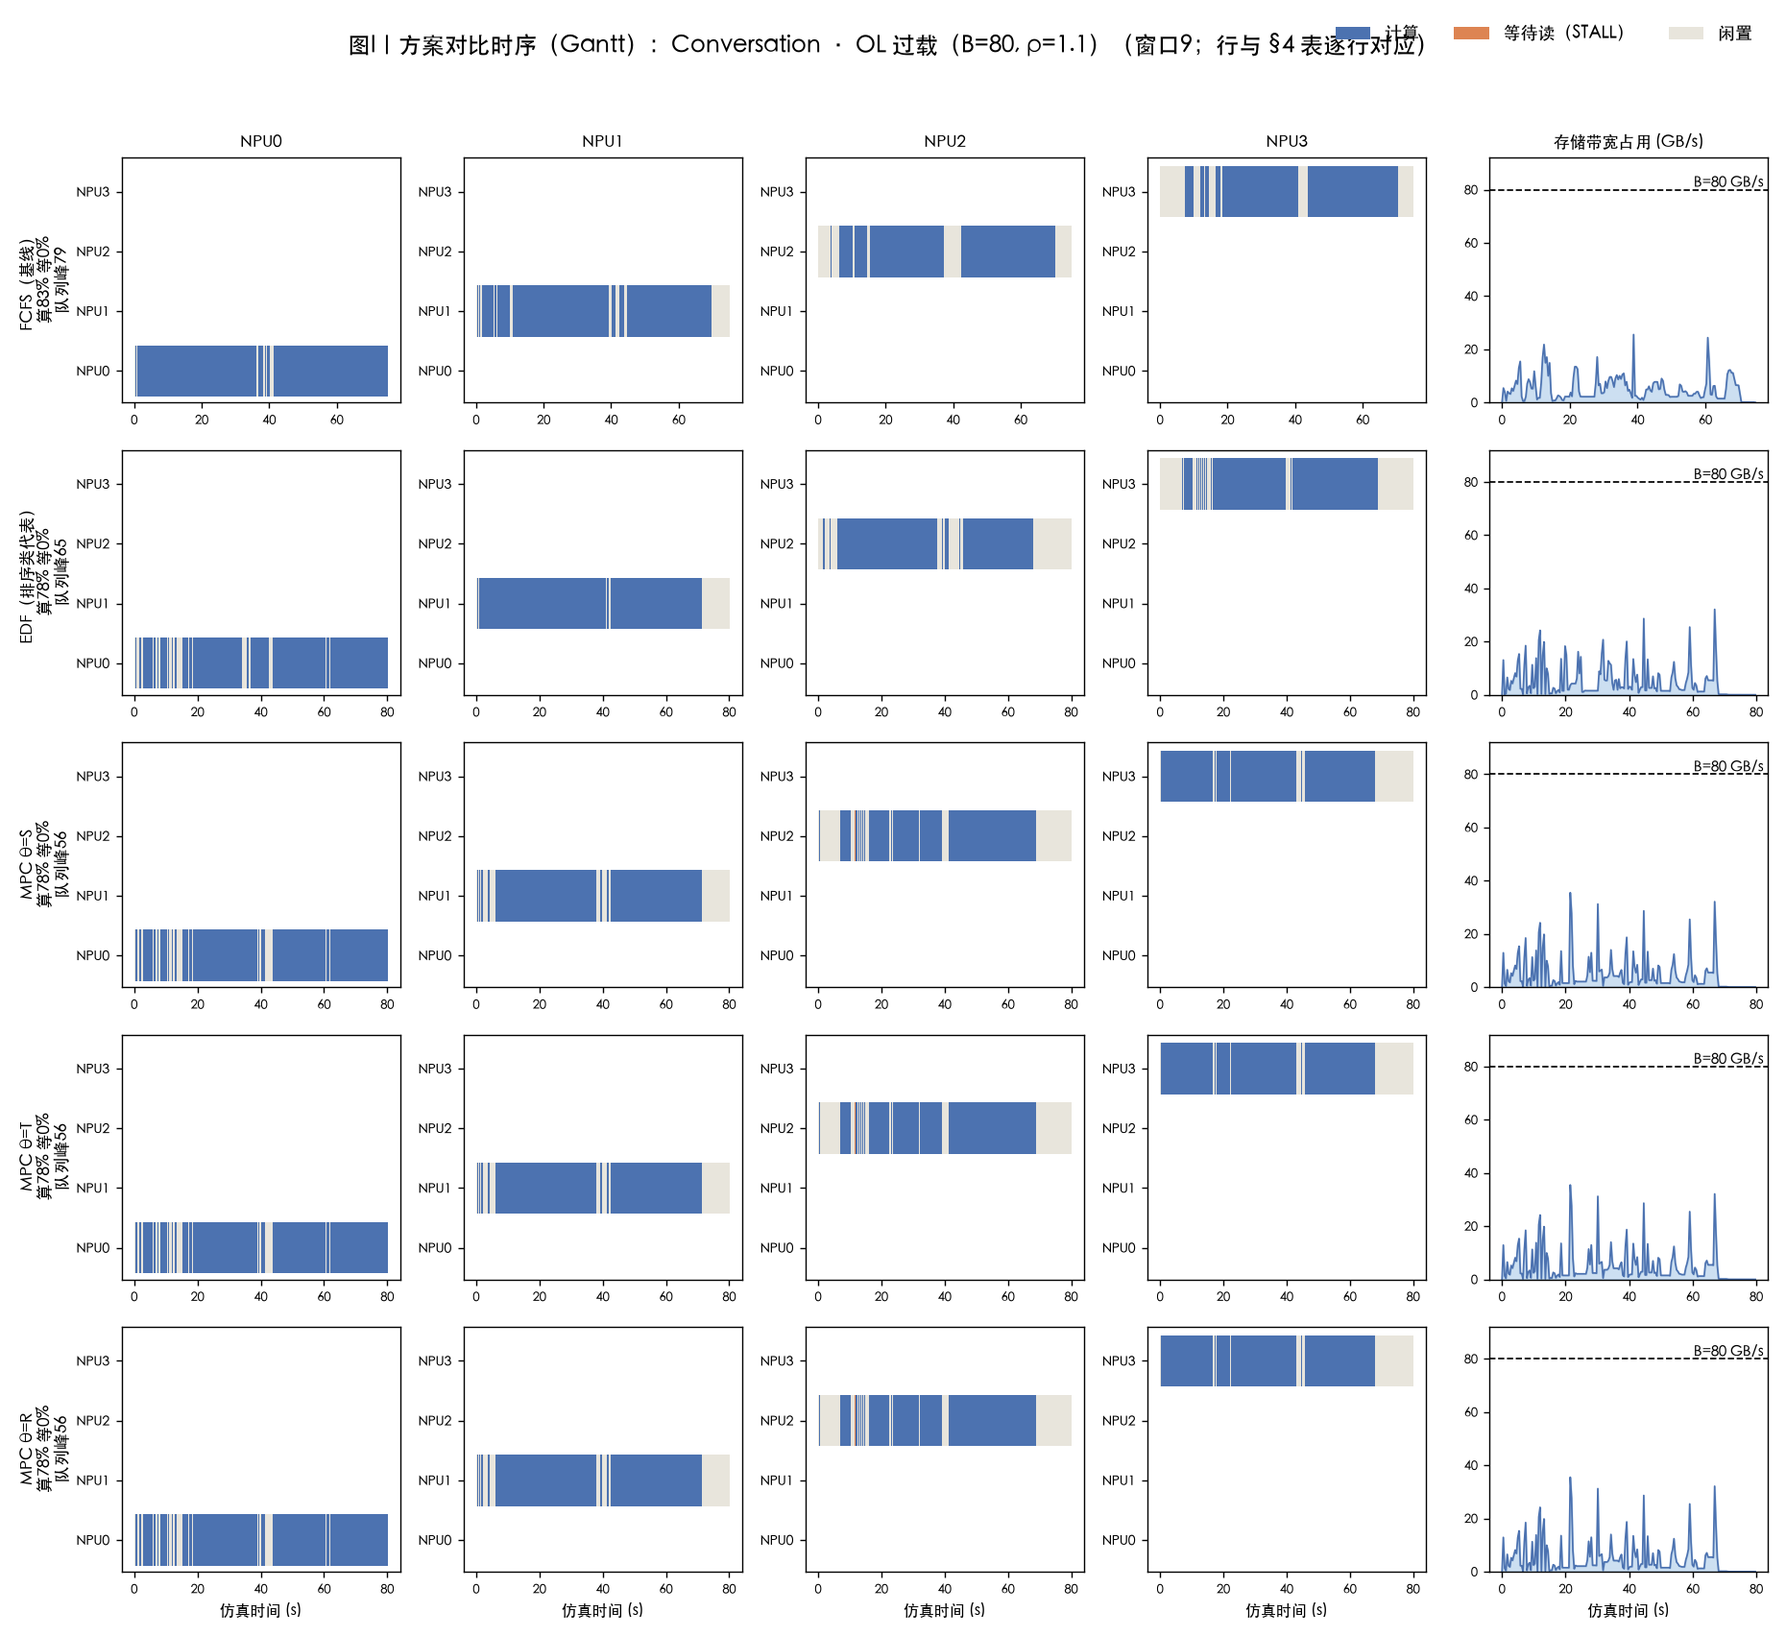
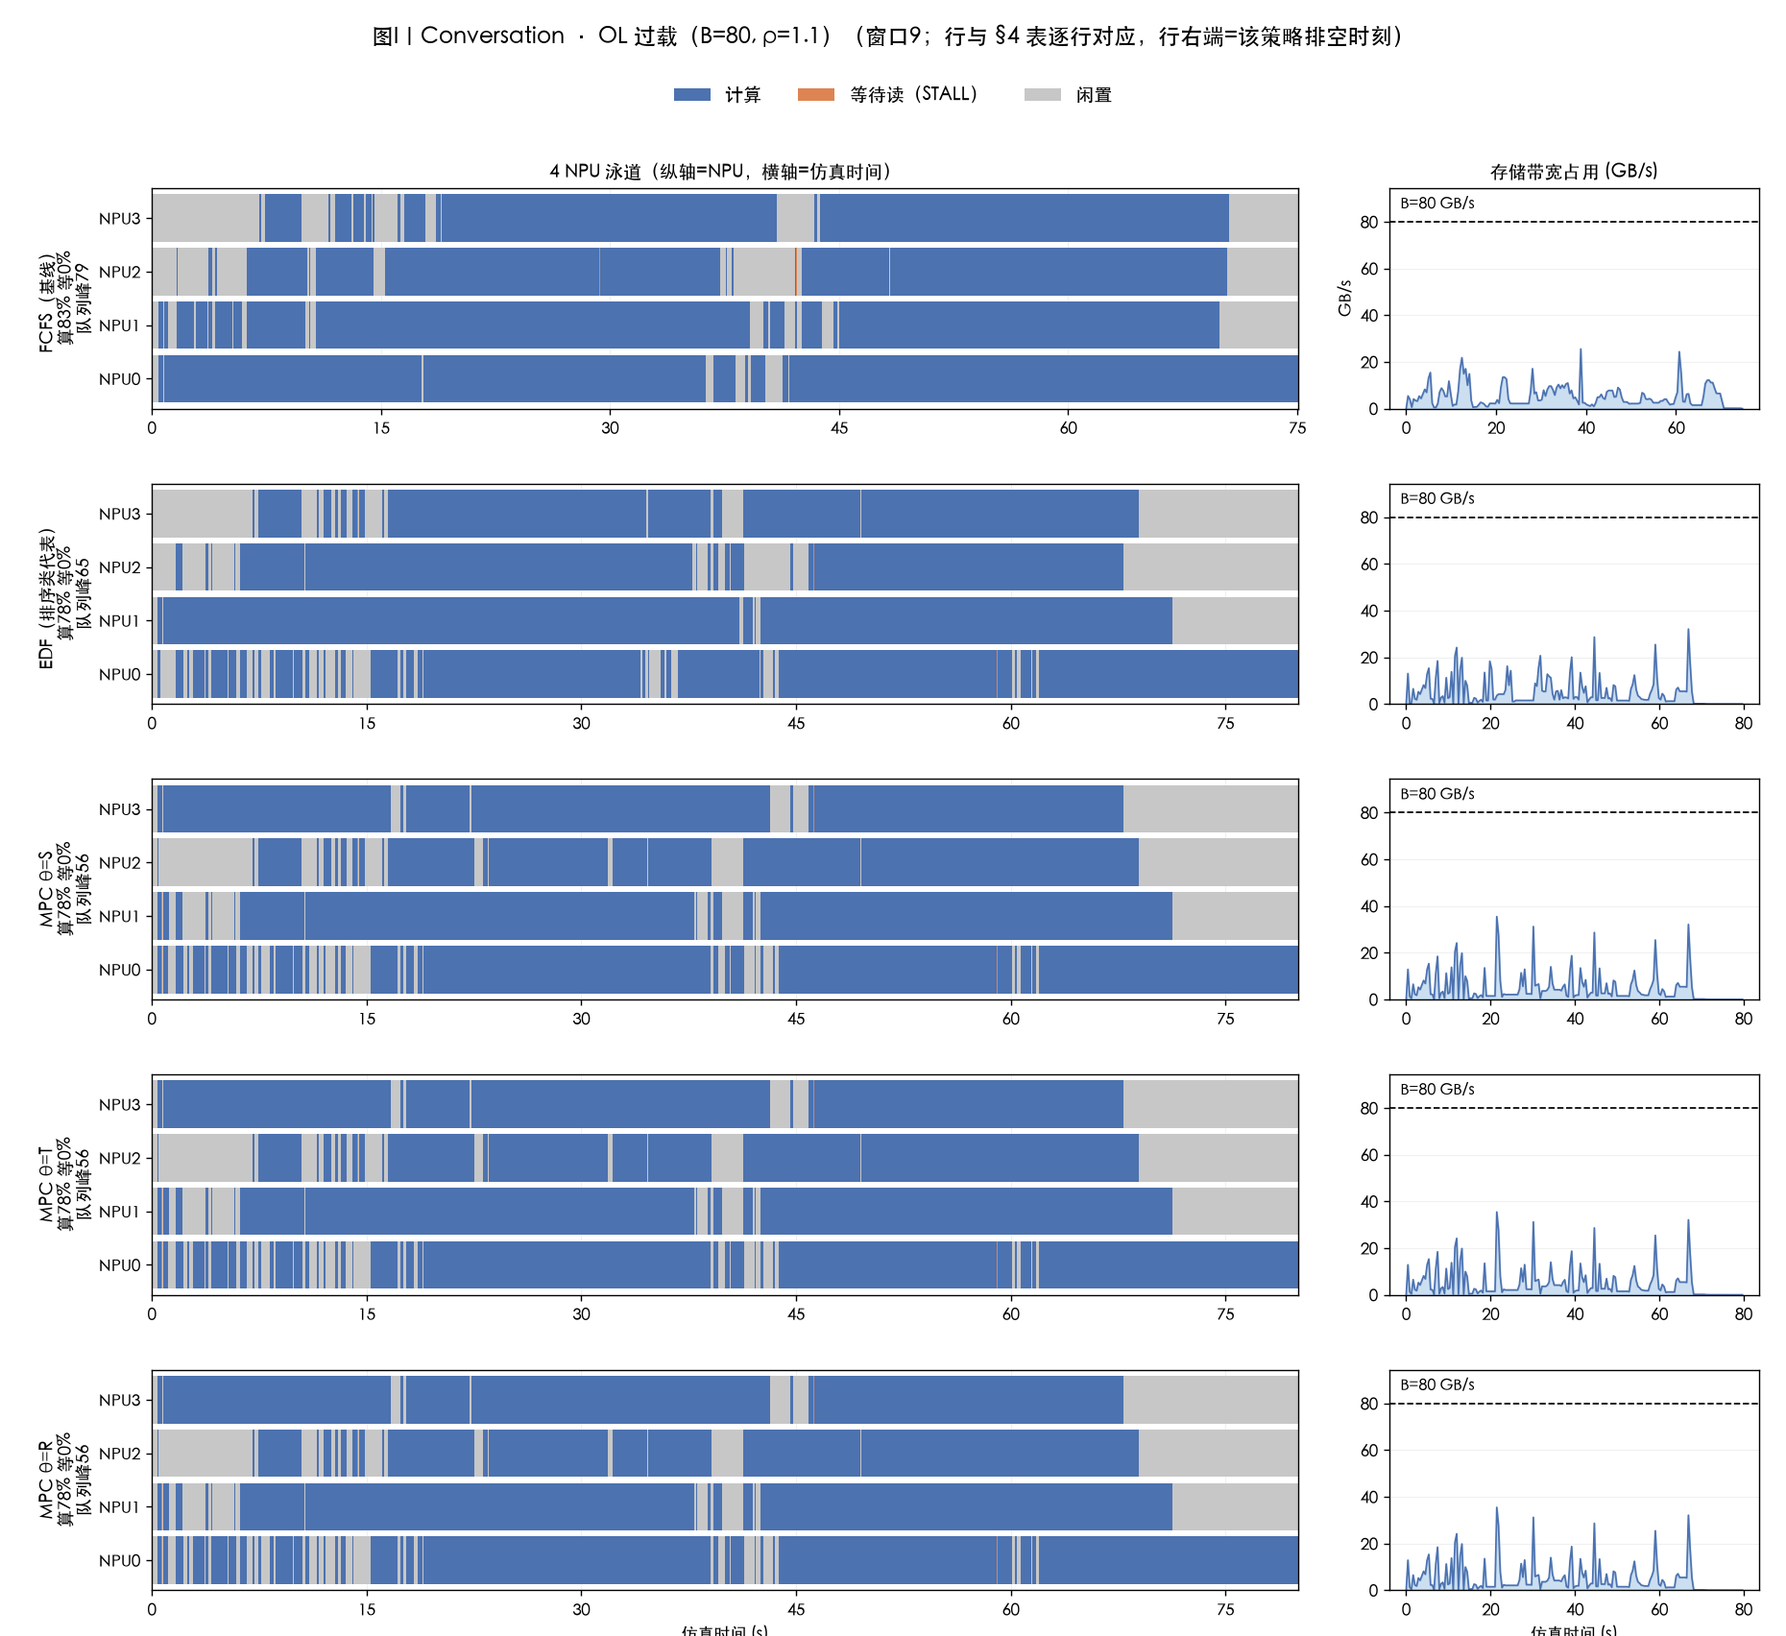
fix(figs): 图 I 重绘为真 Gantt 消除空白/文字重叠；§5 配时序图、§6.0 去重
应用户五点反馈（20260920）：
- 图 I 布局 bug 修复：此前每个 NPU 独占一个子图但纵轴仍为 0–4，
  每个小图 3/4 空白；现改为每行一张含 4 条 NPU 泳道的完整 Gantt
  （纵轴=NPU、横轴=时间），闲置改为可见灰色 #C7C7C7（原米色近白、
  看不出状态），行右端=该策略排空时刻（M 差异直读）；
- 文字重叠：新增 --audit 模式做文字 bbox 两两相交检查，18 张图 I
  与图 A/C 全部清零（图例移至标题下方居中、刻度 MaxNLocator 稀疏化
  并剪枝、加宽列间距）；
- 新增 α=8 场景 ×3 trace（共 18 张 cmp）；e25_redraw 图 A/C 返回
  fig 对象供审计；
- 报告 v4.4：§5.1/5.2/5.3 各嵌图 I 时序形态并给读法（B=20 局部等待、
  α=8 不改资源行为只改期限记账、ρ 两端甜区/过载）；§6.0 改为差距
  成因分析+文件索引、删除与 §4/§5 重复的 6 处嵌图；§4 头部新增格点
  口径声明（基线 ρ=0.6/B=80/α=4，其他扫描在 §5）；图数 29→32。
测试 147 passed。

diff --git a/tools/e25_ts_compare.py b/tools/e25_ts_compare.py
@@ -1,16 +1,17 @@
 """E25 方案对比时序图（图 I 系列，Gantt 式）：行与 §4 各表逐行对应。
 
-设计契约（20260919 定稿，v4.3 入库为正式生成器）：
+设计契约（20260920 v2，修复"子图大面积空白/文字重叠"问题）：
 - FW 场景 6 行：FCFS / EDF（排序类代表，spt/edf/slack 同结果）/ MPC θ=M/S/T/R；
 - OL 场景 5 行：去 θ=M（OL 未跑 θ=M，M 无定义）——与 §4 表行数一一对应；
-- 每行左侧 4 个子图 = NPU0..3 的四条泳道 Gantt：横轴仿真时间，逐桶按
-  计算/等待/闲置的时间占比切分着色（蓝=计算、橙=等待读、米灰底=闲置）；
-- 每行右侧窄列 = 存储带宽实际占用（GB/s，黑虚线 = 可用带宽 B）；
-- 行标签旁标注该策略统计（算% / 等% / 队列峰），图例含三种状态。
+- 每行 = 一张含 4 条 NPU 泳道的 Gantt（纵轴 NPU0..3、横轴仿真时间，
+  逐桶按 计算/等待/闲置 时间占比切分着色：蓝=计算、橙=等待读、灰=闲置，
+  闲置为可见灰色泳道底）+ 右侧窄列 = 存储带宽实际占用（GB/s）；
+- 行标签旁标注该策略统计（算% / 等% / 队列峰）；
+- 各行横轴独立自适应——行的右端即该策略排空时刻（M 差异直接可见）。
 
+场景覆盖（×3 trace 共 18 张）：OL 基线 / B=20 / α=8 / ρ=0.3 / ρ=1.1 与 FW 基线。
 直接读取已归档的 E25.1 时间序列（ts/<cell_id>/<policy>[_θ].json.gz），
-不重跑仿真。覆盖：OL 基线/B=20/ρ=0.3/ρ=1.1 与 FW 基线 × 3 trace 共 15 张；
-同时打印每行统计供报告图注引用。
+不重跑仿真。`--audit` 模式不落盘，只做文字 bbox 重叠检查（QA 用）。
 """
 from __future__ import annotations
 
@@ -18,6 +19,8 @@ import gzip
 import json
 import os
 import sys
+
+from matplotlib.ticker import MaxNLocator
 
 sys.path.insert(0, os.getcwd())
 
@@ -28,9 +31,9 @@ TS_ROOT = os.path.join(REPO, "results", "cq", "eval", "e25", "ts")
 FIG_DIR = os.path.join(REPO, "docs", "figures")
 WINDOW = 9
 
-C_COMP, C_STALL, C_IDLE = "#4C72B0", "#DD8452", "#E8E5DC"
+C_COMP, C_STALL, C_IDLE = "#4C72B0", "#DD8452", "#C7C7C7"
 DPI = 125
-# 画布与既有正式图一致：FW 1860x2016、OL 1860x1704
+# 画布与正式图一致：FW 1860x2016、OL 1860x1704
 FIGSIZE = {"FW": (14.88, 16.128), "OL": (14.88, 13.632)}
 
 ROWS_FW = [("cq_fcfs", "", "FCFS（基线）"),
@@ -44,24 +47,26 @@ ROWS_OL = [r for r in ROWS_FW if r[1] != "_M"]
 CELLS = []
 for f, _n, _m, _s in MOONCAKE_FILES:
     CELLS += [
-        dict(tag="OLbase", mode="OL", file=f, B=80.0, rho=0.6, cap="C",
-             profile="default", title_extra="OL 基线（B=80, ρ=0.6）"),
-        dict(tag="OLB20", mode="OL", file=f, B=20.0, rho=0.6, cap="C",
-             profile="default", title_extra="OL 带宽受限（B=20, ρ=0.6）"),
-        dict(tag="OLr03", mode="OL", file=f, B=80.0, rho=0.3, cap="C",
-             profile="default", title_extra="OL 低负载（B=80, ρ=0.3）"),
-        dict(tag="OLr11", mode="OL", file=f, B=80.0, rho=1.1, cap="C",
-             profile="default", title_extra="OL 过载（B=80, ρ=1.1）"),
-        dict(tag="FWbase", mode="FW", file=f, B=80.0, rho=None, cap="C",
-             profile="default", title_extra="FW 有限工作集（128 条同时到达）"),
+        dict(tag="OLbase", mode="OL", file=f, B=80.0, rho=0.6, alpha=4,
+             title_extra="OL 基线（B=80, ρ=0.6, α=4）"),
+        dict(tag="OLB20", mode="OL", file=f, B=20.0, rho=0.6, alpha=4,
+             title_extra="OL 带宽受限（B=20, ρ=0.6）"),
+        dict(tag="OLa8", mode="OL", file=f, B=80.0, rho=0.6, alpha=8,
+             title_extra="OL 松期限（α=8）"),
+        dict(tag="OLr03", mode="OL", file=f, B=80.0, rho=0.3, alpha=4,
+             title_extra="OL 低负载（B=80, ρ=0.3）"),
+        dict(tag="OLr11", mode="OL", file=f, B=80.0, rho=1.1, alpha=4,
+             title_extra="OL 过载（B=80, ρ=1.1）"),
+        dict(tag="FWbase", mode="FW", file=f, B=80.0, rho=None, alpha=4,
+             title_extra="FW 有限工作集（128 条同时到达）"),
     ]
 
 
 def cell_id(c):
     rho = "-" if c["rho"] is None else f"{c['rho']:g}"
     stem = c["file"].replace("_trace.jsonl", "").replace(".jsonl", "")
-    return (f"{stem}|{c['mode']}|B{c['B']:g}|rho{rho}|a4|{c['cap']}|"
-            f"{c['profile']}|w{WINDOW}")
+    return (f"{stem}|{c['mode']}|B{c['B']:g}|rho{rho}|a{c['alpha']:g}|C|"
+            f"default|w{WINDOW}")
 
 
 def load_ts(c, pid, suffix):
@@ -82,30 +87,35 @@ def row_stats(ts):
             max(q) if q else 0)
 
 
-def draw_gantt(ax, ts, wi):
-    """单 NPU 泳道 Gantt：全底米灰=闲置，逐桶叠蓝（计算）/橙（等待读）。"""
+def draw_gantt(ax, ts):
+    """一张含 4 条 NPU 泳道的 Gantt：灰底=闲置，逐桶叠蓝（计算）/橙（等待读）。"""
     rows = [r for r in ts["rows"] if r["width_s"] > 0]
     t0 = min(r["t_start_s"] for r in rows)
     t1 = max(r["t_start_s"] + r["width_s"] for r in rows)
-    ax.broken_barh([(t0, t1 - t0)], (wi, 0.86), facecolors=C_IDLE,
-                   edgecolor="none", zorder=1)
-    blue_xr, orange_xr = [], []
-    for r in rows:
-        c, s, _i = r["workers"][wi]
-        if c > 0:
-            blue_xr.append((r["t_start_s"], c))
-        if s > 0:
-            orange_xr.append((r["t_start_s"] + c, s))
-    if blue_xr:
-        ax.broken_barh(blue_xr, (wi, 0.86), facecolors=C_COMP,
-                       edgecolor="none", zorder=2)
-    if orange_xr:
-        ax.broken_barh(orange_xr, (wi, 0.86), facecolors=C_STALL,
-                       edgecolor="none", zorder=3)
-    ax.set_ylim(-0.1, 4.0)
-    ax.set_yticks([j + 0.43 for j in range(4)])
-    ax.set_yticklabels([f"NPU{j}" for j in range(4)], fontsize=8)
-    ax.tick_params(axis="x", labelsize=7.5)
+    for j in range(4):
+        y = (j + 0.055, 0.89)
+        ax.broken_barh([(t0, t1 - t0)], y, facecolors=C_IDLE,
+                       edgecolor="none", zorder=1)
+        blue_xr, orange_xr = [], []
+        for r in rows:
+            c, s, _i = r["workers"][j]
+            if c > 0:
+                blue_xr.append((r["t_start_s"], c))
+            if s > 0:
+                orange_xr.append((r["t_start_s"] + c, s))
+        if blue_xr:
+            ax.broken_barh(blue_xr, y, facecolors=C_COMP,
+                           edgecolor="none", zorder=2)
+        if orange_xr:
+            ax.broken_barh(orange_xr, y, facecolors=C_STALL,
+                           edgecolor="none", zorder=3)
+    ax.set_ylim(-0.06, 4.06)
+    ax.set_yticks([j + 0.5 for j in range(4)])
+    ax.set_yticklabels([f"NPU{j}" for j in range(4)], fontsize=10)
+    ax.set_xlim(t0, t1)
+    ax.xaxis.set_major_locator(MaxNLocator(nbins=7, prune="upper"))
+    ax.grid(axis="x", alpha=.18, lw=.6)
+    ax.set_axisbelow(True)
 
 
 def draw_bandwidth(ax, ts, first_row, last_row):
@@ -116,14 +126,90 @@ def draw_bandwidth(ax, ts, first_row, last_row):
     ax.fill_between(xs, rate, color="#8fb8e0", alpha=.45, zorder=1)
     ax.plot(xs, rate, color=C_COMP, lw=1.0, zorder=2)
     ax.axhline(b, color="k", ls="--", lw=1.0, zorder=3)
-    ax.text(0.985, b, f"B={b:g} GB/s", transform=ax.get_yaxis_transform(),
-            va="bottom", ha="right", fontsize=8.5)
-    ax.set_ylim(0, b * 1.15)
-    ax.tick_params(labelsize=7.5)
+    ax.set_ylim(0, b * 1.18)
+    ax.xaxis.set_major_locator(MaxNLocator(nbins=5))
+    ax.text(0.03, 0.965, f"B={b:g} GB/s", transform=ax.transAxes,
+            va="top", ha="left", fontsize=9)
+    ax.grid(axis="y", alpha=.18, lw=.6)
     if first_row:
-        ax.set_title("存储带宽占用 (GB/s)", fontsize=10)
+        ax.set_title("存储带宽占用 (GB/s)", fontsize=11)
     if last_row:
-        ax.set_xlabel("仿真时间 (s)", fontsize=9)
+        ax.set_xlabel("仿真时间 (s)", fontsize=10)
+    if first_row:
+        ax.set_ylabel("GB/s", fontsize=9.5)
+
+
+def build_figure(plt, c, legend_patches):
+    """构建一张图 I（不落盘）。返回 (fig, [(label, stats), ...])。"""
+    rows_def = ROWS_FW if c["mode"] == "FW" else ROWS_OL
+    tss = []
+    for pid, suffix, label in rows_def:
+        ts = load_ts(c, pid, suffix)
+        if ts is None:
+            break
+        tss.append((label, ts))
+    if len(tss) < len(rows_def):
+        return None, None
+    n = len(tss)
+    fig = plt.figure(figsize=FIGSIZE[c["mode"]], dpi=DPI)
+    gs = fig.add_gridspec(n, 2, width_ratios=[3.1, 1.0], hspace=0.34,
+                          wspace=0.12, left=0.085, right=0.985,
+                          top=0.885, bottom=0.028)
+    stat_rows = []
+    for ri, (label, ts) in enumerate(tss):
+        first, last = ri == 0, ri == n - 1
+        axg = fig.add_subplot(gs[ri, 0])
+        draw_gantt(axg, ts)
+        if first:
+            axg.set_title("4 NPU 泳道（纵轴=NPU，横轴=仿真时间）", fontsize=11)
+        if last:
+            axg.set_xlabel("仿真时间 (s)", fontsize=10)
+        axb = fig.add_subplot(gs[ri, 1])
+        draw_bandwidth(axb, ts, first, last)
+        comp, stall, qmax = row_stats(ts)
+        stat_rows.append((label, comp, stall, qmax))
+        axg.set_ylabel(f"{label}\n算{comp:.0%} 等{stall:.0%}\n队列峰{qmax:.0f}",
+                       fontsize=10.5)
+    fig.suptitle(f"图I｜{TRACE_LABEL[c['file']]} · {c['title_extra']}"
+                 f"（窗口{WINDOW}；行与 §4 表逐行对应，行右端=该策略排空时刻）",
+                 fontsize=13.5, y=0.985)
+    fig.legend(handles=legend_patches, loc="upper center", ncol=3,
+               frameon=False, fontsize=11, bbox_to_anchor=(0.5, 0.958))
+    return fig, stat_rows
+
+
+def audit_text_overlap(fig):
+    """QA：收集全部可见文字 artist 的窗口 bbox，报告两两重叠对（空=通过）。
+
+    刻度标签若落在所属 axes 视野之外（locator 生成了但不绘制），不计入。
+    """
+    fig.canvas.draw()
+    ren = fig.canvas.get_renderer()
+    items = []
+    for ax in fig.axes:
+        ax_bb = ax.get_window_extent(ren)
+        for t in ax.texts:
+            if t.get_text() and t.get_window_extent(ren).overlaps(ax_bb):
+                items.append(t)
+        for t in ax.get_xticklabels() + ax.get_yticklabels():
+            if t.get_text() and t.get_window_extent(ren).overlaps(ax_bb):
+                items.append(t)
+        if ax.get_title():
+            items.append(ax.title)
+        for t in (ax.xaxis.label, ax.yaxis.label):
+            if t.get_text():
+                items.append(t)
+    if getattr(fig, "_suptitle", None) is not None:
+        items.append(fig._suptitle)
+    for leg in fig.legends:
+        items.append(leg)
+    boxes = [it.get_window_extent(ren) for it in items]
+    out = []
+    for i in range(len(boxes)):
+        for j in range(i + 1, len(boxes)):
+            if boxes[i].overlaps(boxes[j]):
+                out.append((str(items[i])[:28], str(items[j])[:28]))
+    return out
 
 
 def main():
@@ -134,55 +220,32 @@ def main():
     plt.rcParams["font.sans-serif"] = ["PingFang SC", "Heiti SC", "DejaVu Sans"]
     plt.rcParams["axes.unicode_minus"] = False
 
+    patches = [Patch(facecolor=C_COMP, label="计算"),
+               Patch(facecolor=C_STALL, label="等待读（STALL）"),
+               Patch(facecolor=C_IDLE, label="闲置")]
+    audit_only = "--audit" in sys.argv
     made = 0
     for c in CELLS:
-        rows_def = ROWS_FW if c["mode"] == "FW" else ROWS_OL
-        tss = []
-        for pid, suffix, label in rows_def:
-            ts = load_ts(c, pid, suffix)
-            if ts is None:
-                break
-            tss.append((pid, label, ts))
-        if len(tss) < len(rows_def):
+        fig, stat_rows = build_figure(plt, c, patches)
+        if fig is None:
             print(f"skip {c['tag']} {c['file'][:12]}: ts 缺失")
             continue
-        n = len(tss)
-        fig, axes = plt.subplots(n, 5, figsize=FIGSIZE[c["mode"]],
-                                 squeeze=False, dpi=DPI)
-        for ri, (pid, label, ts) in enumerate(tss):
-            first, last = ri == 0, ri == n - 1
-            for wi in range(4):
-                ax = axes[ri][wi]
-                draw_gantt(ax, ts, wi)
-                if first:
-                    ax.set_title(f"NPU{wi}", fontsize=10)
-                if last:
-                    ax.set_xlabel("仿真时间 (s)", fontsize=9)
-            draw_bandwidth(axes[ri][4], ts, first, last)
-            comp, stall, qmax = row_stats(ts)
-            axes[ri][0].set_ylabel(
-                f"{label}\n算{comp:.0%} 等{stall:.0%}\n队列峰{qmax:.0f}",
-                fontsize=10)
-        handles = [Patch(facecolor=C_COMP, label="计算"),
-                   Patch(facecolor=C_STALL, label="等待读（STALL）"),
-                   Patch(facecolor=C_IDLE, label="闲置")]
-        fig.legend(handles=handles, loc="upper right", ncol=3,
-                   frameon=False, fontsize=10.5,
-                   bbox_to_anchor=(0.99, 0.995))
-        fig.suptitle(f"图I｜方案对比时序（Gantt）：{TRACE_LABEL[c['file']]} · "
-                     f"{c['title_extra']}（窗口{WINDOW}；行与 §4 表逐行对应）",
-                     fontsize=14)
-        fig.tight_layout(rect=(0, 0, 1, 0.955), h_pad=1.4)
-        out = os.path.join(FIG_DIR,
-                           f"cq_fig_e25_cmp_{c['tag']}_{c['file'].split('_')[0]}.png")
+        if audit_only:
+            ov = audit_text_overlap(fig)
+            tag = "OK" if not ov else f"重叠 {len(ov)} 对: {ov[:3]}"
+            print(f"[audit] {c['tag']}_{c['file'].split('_')[0]}: {tag}")
+            plt.close(fig)
+            continue
+        out = os.path.join(
+            FIG_DIR, f"cq_fig_e25_cmp_{c['tag']}_{c['file'].split('_')[0]}.png")
         fig.savefig(out, dpi=DPI)
         plt.close(fig)
         made += 1
         print(os.path.basename(out))
-        for _pid, label, ts in tss:
-            comp, stall, qmax = row_stats(ts)
+        for label, comp, stall, qmax in stat_rows:
             print(f"   {label:12s} 算{comp:.0%} 等{stall:.1%} 队列峰{qmax:.0f}")
-    print(f"共生成 {made} 张 -> docs/figures")
+    if not audit_only:
+        print(f"共生成 {made} 张 -> docs/figures")
 
 
 if __name__ == "__main__":

diff --git a/tools/e25_redraw.py b/tools/e25_redraw.py
@@ -123,7 +123,7 @@ def fig_objectives(plt, recs):
                  "MPC/local 按指标对应 θ 取数）")
     fig.tight_layout(rect=(0, 0, 1, 0.94))
     fig.savefig(os.path.join(FIG, "cq_fig_e25_objectives.png"), dpi=DPI)
-    plt.close(fig)
+    return fig
 
 
 # ---------------------------------------------------------------- 图 C（条形）
@@ -163,7 +163,7 @@ def fig_pareto(plt, recs):
                  "5 窗中位；正值=更快；Synthetic 队列空、全策略与 FCFS 相同）")
     fig.tight_layout(rect=(0, 0, 1, 0.90))
     fig.savefig(os.path.join(FIG, "cq_fig_e25_pareto.png"), dpi=DPI)
-    plt.close(fig)
+    return fig
 
 
 # ---------------------------------------------------------------- 图 G（两线制）
